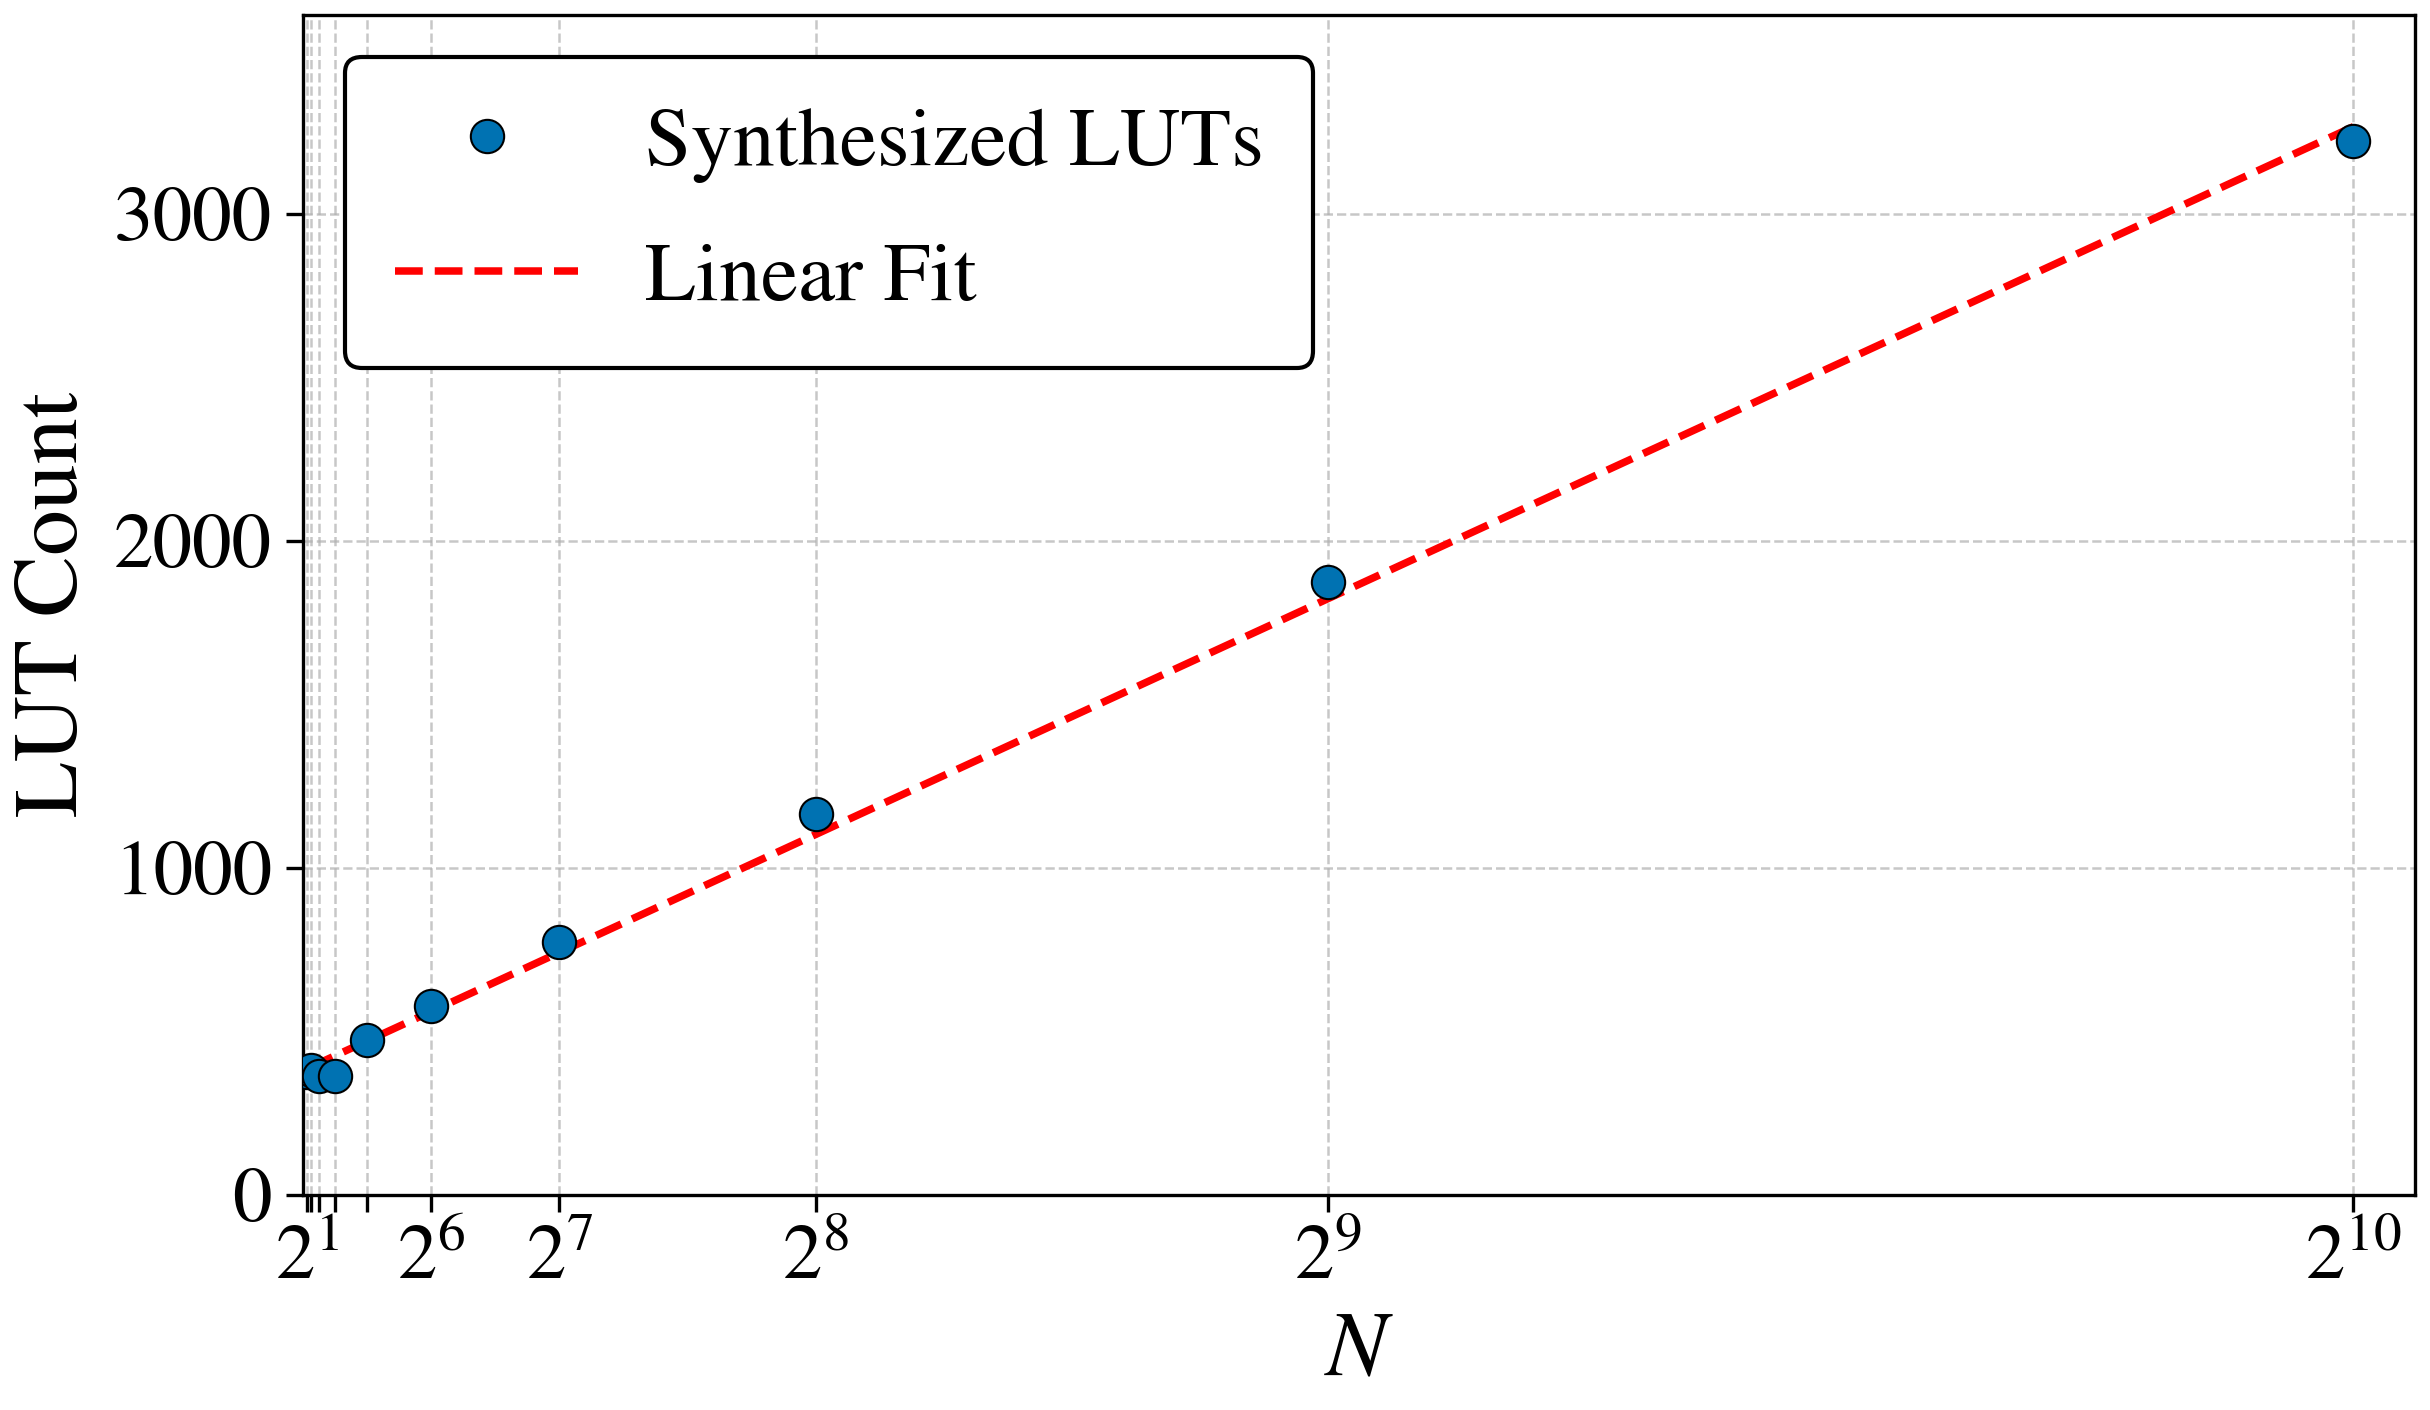
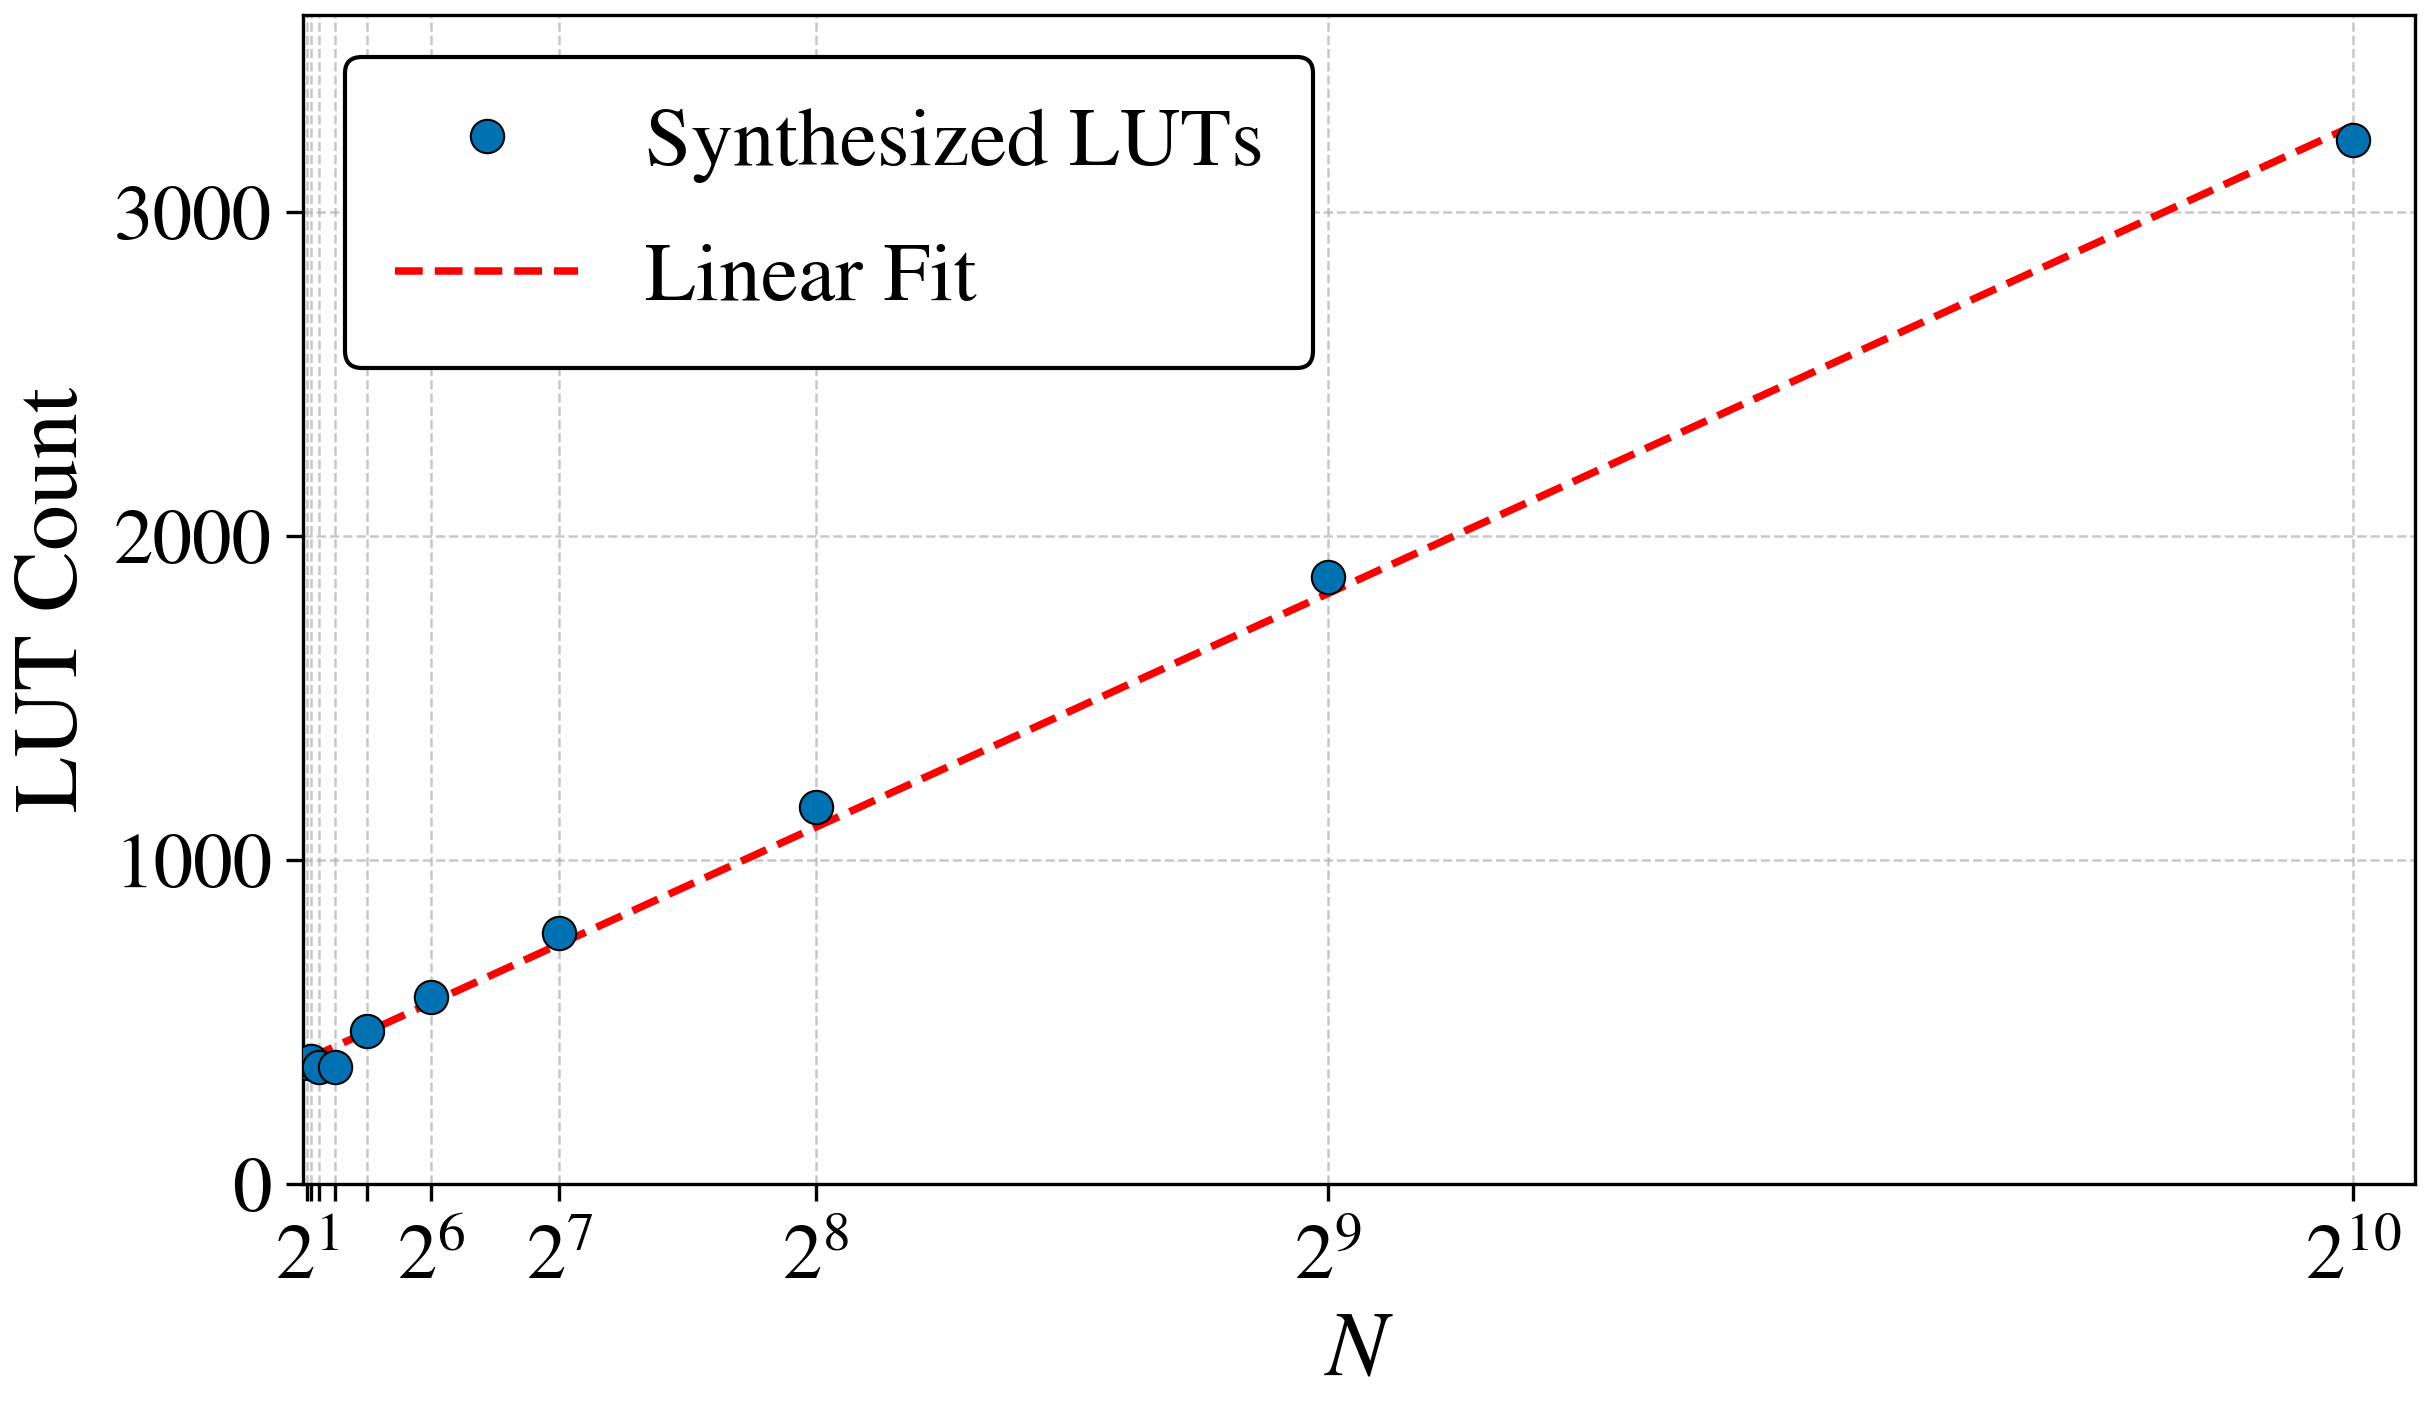
m

diff --git a/evaluation/layernorm/N_sweep/scripts/plot_accuracy.py b/evaluation/layernorm/N_sweep/scripts/plot_accuracy.py
@@ -176,6 +176,9 @@ def configure_style() -> None:
             "ytick.major.width": 0.8,
             "xtick.major.size": 4.0,
             "ytick.major.size": 4.0,
+            # Extra padding below the x tick labels so the horizontal 2^k labels
+            # sit clear of the axis line/grid above them (default ~3.5pt).
+            "xtick.major.pad": 6.0,
             # Dashed grid, matching the pareto/coeff figures' style.
             "axes.grid": True,
             "grid.linestyle": "--",

diff --git a/evaluation/layernorm/N_sweep/scripts/plot_resources.py b/evaluation/layernorm/N_sweep/scripts/plot_resources.py
@@ -158,6 +158,9 @@ def configure_style() -> None:
             "ytick.major.width": 0.8,
             "xtick.major.size": 4.0,
             "ytick.major.size": 4.0,
+            # Extra padding below the x tick labels so the horizontal 2^k labels
+            # sit clear of the axis line/grid above them (default ~3.5pt).
+            "xtick.major.pad": 6.0,
             "axes.grid": True,
             "grid.linestyle": "--",
             "grid.linewidth": 0.6,
